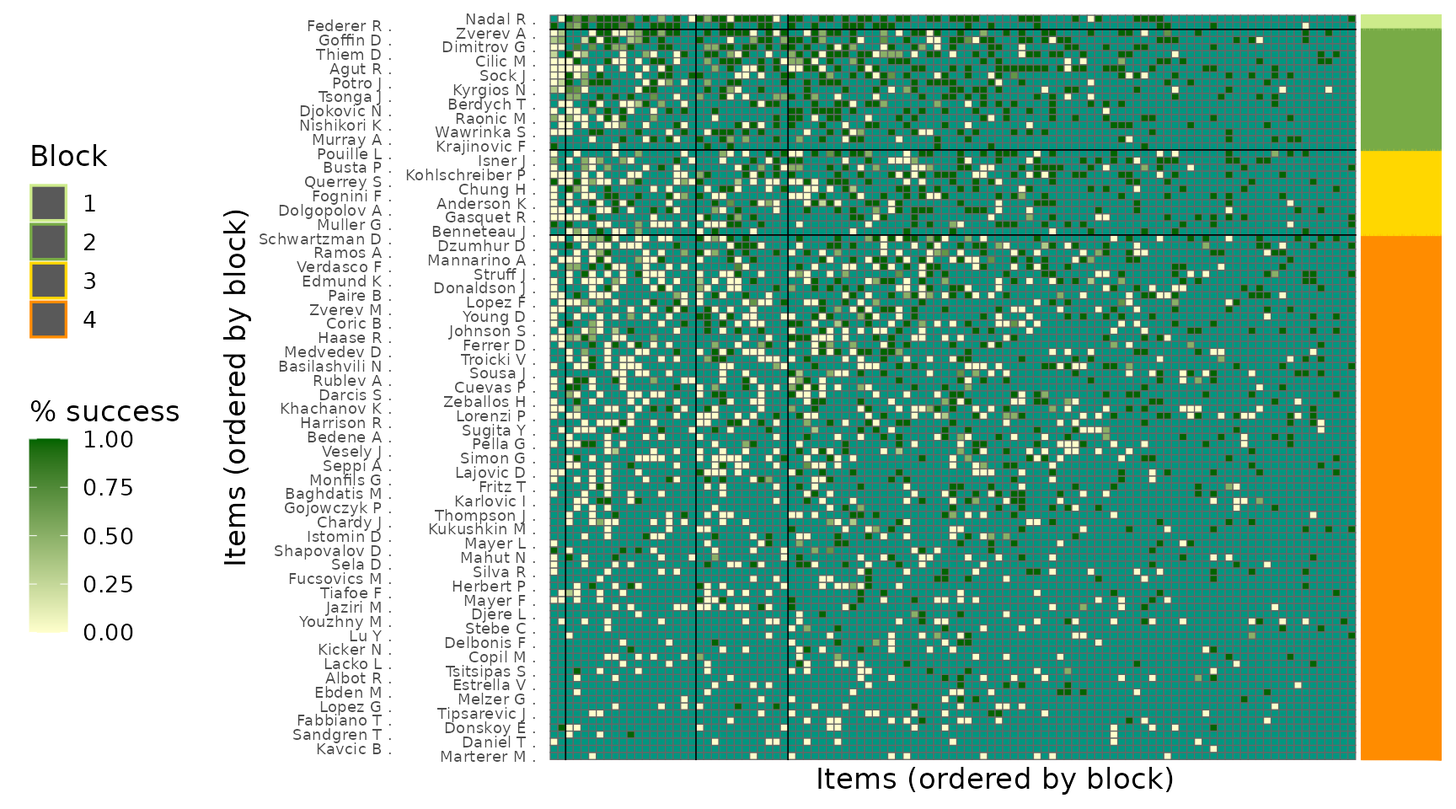
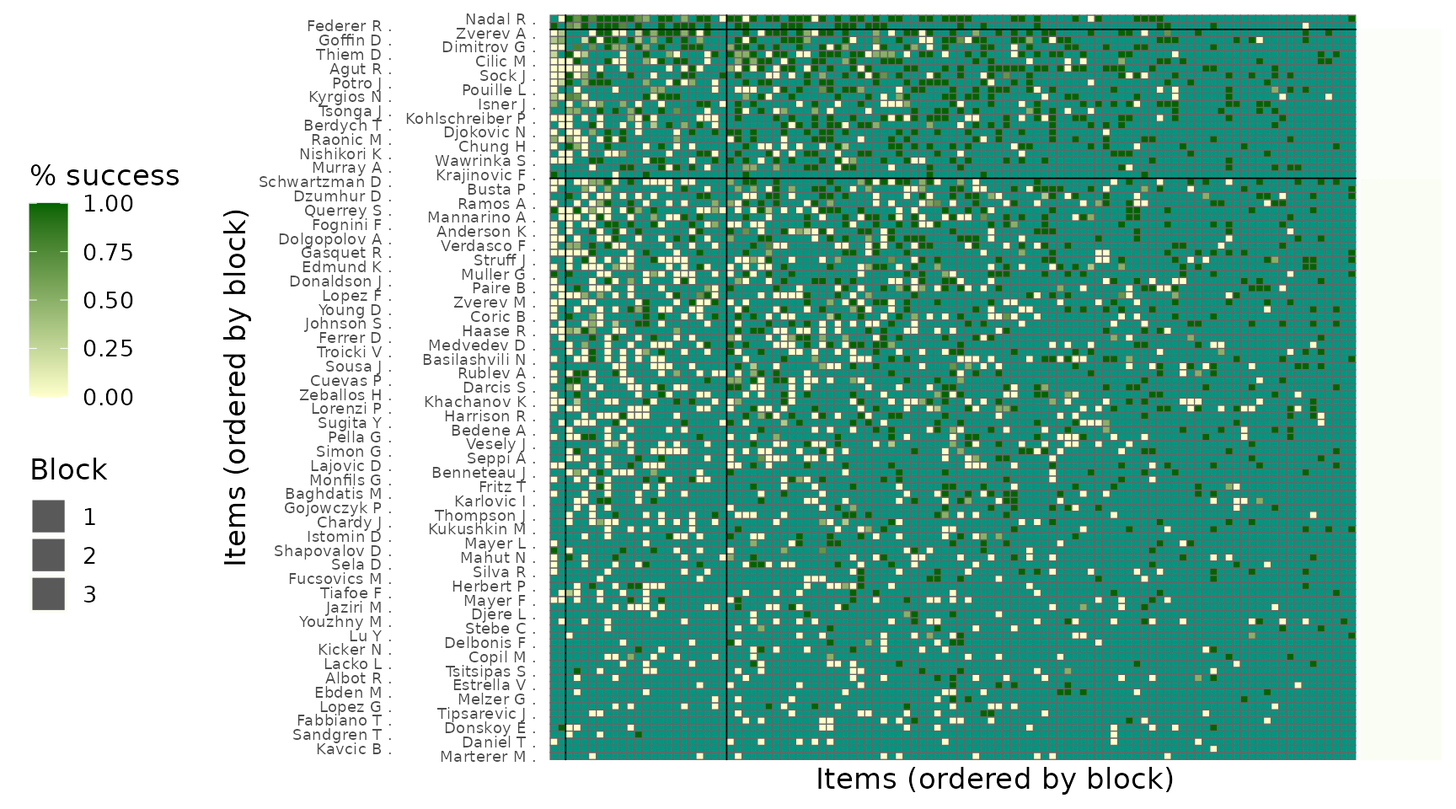
Deploying to gh-pages from @ laposanti/BTSBM@cc916e5ebd5cb34f34830970babe88e7a06e779b 🚀

Changed region(s): [[0.1875, 0.0, 1.0, 0.9375], [0.0, 0.1875, 0.125, 0.8125]]

diff --git a/reference/relabel_by_lambda.html b/reference/relabel_by_lambda.html
@@ -1,19 +1,27 @@
 <!DOCTYPE html>
-<!-- Generated by pkgdown: do not edit by hand --><html lang="en"><head><meta http-equiv="Content-Type" content="text/html; charset=UTF-8"><meta charset="utf-8"><meta http-equiv="X-UA-Compatible" content="IE=edge"><meta name="viewport" content="width=device-width, initial-scale=1, shrink-to-fit=no"><title>Relabel cluster assignments by decreasing lambda — relabel_by_lambda • BTSBM: Bradley–Terry Stochastic Block Model</title><!-- mathjax math --><script src="https://cdn.jsdelivr.net/npm/mathjax@3.2.2/es5/tex-mml-chtml.js" integrity="sha256-MASABpB4tYktI2Oitl4t+78w/lyA+D7b/s9GEP0JOGI=" crossorigin="anonymous"></script><script>
+<!-- Generated by pkgdown: do not edit by hand --><html lang="en"><head><meta http-equiv="Content-Type" content="text/html; charset=UTF-8"><meta charset="utf-8"><meta http-equiv="X-UA-Compatible" content="IE=edge"><meta name="viewport" content="width=device-width, initial-scale=1, shrink-to-fit=no"><title>Relabel partitions by decreasing \(\lambda\), compute point estimates, and quantify uncertainty via credible balls — relabel_by_lambda • BTSBM: Bradley–Terry Stochastic Block Model</title><!-- mathjax math --><script src="https://cdn.jsdelivr.net/npm/mathjax@3.2.2/es5/tex-mml-chtml.js" integrity="sha256-MASABpB4tYktI2Oitl4t+78w/lyA+D7b/s9GEP0JOGI=" crossorigin="anonymous"></script><script>
   window.MathJax = {
     chtml: {
       fontURL: "https://cdn.jsdelivr.net/npm/mathjax@3.2.2/es5/output/chtml/fonts/woff-v2"
     }
   };
-</script><script src="../lightswitch.js"></script><script src="../deps/jquery-3.6.0/jquery-3.6.0.min.js"></script><meta name="viewport" content="width=device-width, initial-scale=1, shrink-to-fit=no"><link href="../deps/bootstrap-5.3.1/bootstrap.min.css" rel="stylesheet"><script src="../deps/bootstrap-5.3.1/bootstrap.bundle.min.js"></script><link href="../deps/font-awesome-6.5.2/css/all.min.css" rel="stylesheet"><link href="../deps/font-awesome-6.5.2/css/v4-shims.min.css" rel="stylesheet"><script src="../deps/headroom-0.11.0/headroom.min.js"></script><script src="../deps/headroom-0.11.0/jQuery.headroom.min.js"></script><script src="../deps/bootstrap-toc-1.0.1/bootstrap-toc.min.js"></script><script src="../deps/clipboard.js-2.0.11/clipboard.min.js"></script><script src="../deps/search-1.0.0/autocomplete.jquery.min.js"></script><script src="../deps/search-1.0.0/fuse.min.js"></script><script src="../deps/search-1.0.0/mark.min.js"></script><!-- pkgdown --><script src="../pkgdown.js"></script><meta property="og:title" content="Relabel cluster assignments by decreasing lambda — relabel_by_lambda"><meta name="description" content="Given posterior samples of labels x_samples (S x N) and corresponding
-cluster-level intensities lambda_samples per iteration, produce a
-canonical relabeling where cluster 1 has the largest \(\lambda\),
-cluster 2 the second largest, etc. Also computes co-clustering summaries
-and assignment probabilities."><meta property="og:description" content="Given posterior samples of labels x_samples (S x N) and corresponding
-cluster-level intensities lambda_samples per iteration, produce a
-canonical relabeling where cluster 1 has the largest \(\lambda\),
-cluster 2 the second largest, etc. Also computes co-clustering summaries
-and assignment probabilities."></head><body>
+</script><script src="../lightswitch.js"></script><script src="../deps/jquery-3.6.0/jquery-3.6.0.min.js"></script><meta name="viewport" content="width=device-width, initial-scale=1, shrink-to-fit=no"><link href="../deps/bootstrap-5.3.1/bootstrap.min.css" rel="stylesheet"><script src="../deps/bootstrap-5.3.1/bootstrap.bundle.min.js"></script><link href="../deps/font-awesome-6.5.2/css/all.min.css" rel="stylesheet"><link href="../deps/font-awesome-6.5.2/css/v4-shims.min.css" rel="stylesheet"><script src="../deps/headroom-0.11.0/headroom.min.js"></script><script src="../deps/headroom-0.11.0/jQuery.headroom.min.js"></script><script src="../deps/bootstrap-toc-1.0.1/bootstrap-toc.min.js"></script><script src="../deps/clipboard.js-2.0.11/clipboard.min.js"></script><script src="../deps/search-1.0.0/autocomplete.jquery.min.js"></script><script src="../deps/search-1.0.0/fuse.min.js"></script><script src="../deps/search-1.0.0/mark.min.js"></script><!-- pkgdown --><script src="../pkgdown.js"></script><meta property="og:title" content="Relabel partitions by decreasing \(\lambda\), compute point estimates, and quantify uncertainty via credible balls — relabel_by_lambda"><meta name="description" content="Given posterior samples of labels x_samples (S x N) and corresponding
+cluster-level intensities lambda_samples per iteration, this function:
+(i) relabels each draw so that cluster 1 has the largest \(\lambda\),
+cluster 2 the second largest, etc.; (ii) computes posterior similarity
+matrix (PSM) and partition point estimates (minVI and Binder); and
+(iii) constructs a VI-credible ball around the minVI partition and returns the
+extremal partitions on its surface (lower/upper), relabelled by decreasing
+strength for interpretability. It also returns per-item assignment probabilities
+and the posterior distribution of the number of clusters."><meta property="og:description" content="Given posterior samples of labels x_samples (S x N) and corresponding
+cluster-level intensities lambda_samples per iteration, this function:
+(i) relabels each draw so that cluster 1 has the largest \(\lambda\),
+cluster 2 the second largest, etc.; (ii) computes posterior similarity
+matrix (PSM) and partition point estimates (minVI and Binder); and
+(iii) constructs a VI-credible ball around the minVI partition and returns the
+extremal partitions on its surface (lower/upper), relabelled by decreasing
+strength for interpretability. It also returns per-item assignment probabilities
+and the posterior distribution of the number of clusters."></head><body>
     <a href="#main" class="visually-hidden-focusable">Skip to contents</a>
 
 
@@ -52,17 +60,21 @@ and assignment probabilities."></head><body>
 <div class="row">
   <main id="main" class="col-md-9"><div class="page-header">
 
-      <h1>Relabel cluster assignments by decreasing lambda</h1>
+      <h1>Relabel partitions by decreasing \(\lambda\), compute point estimates, and quantify uncertainty via credible balls</h1>
       <small class="dont-index">Source: <a href="https://github.com/laposanti/BTSBM/blob/main/R/utils.R" class="external-link"><code>R/utils.R</code></a></small>
       <div class="d-none name"><code>relabel_by_lambda.Rd</code></div>
     </div>
 
     <div class="ref-description section level2">
     <p>Given posterior samples of labels <code>x_samples</code> (S x N) and corresponding
-cluster-level intensities <code>lambda_samples</code> per iteration, produce a
-canonical relabeling where cluster 1 has the largest \(\lambda\),
-cluster 2 the second largest, etc. Also computes co-clustering summaries
-and assignment probabilities.</p>
+cluster-level intensities <code>lambda_samples</code> per iteration, this function:
+(i) relabels each draw so that cluster <code>1</code> has the largest \(\lambda\),
+cluster <code>2</code> the second largest, etc.; (ii) computes posterior similarity
+matrix (PSM) and partition point estimates (minVI and Binder); and
+(iii) constructs a VI-credible ball around the minVI partition and returns the
+<em>extremal</em> partitions on its surface (lower/upper), relabelled by decreasing
+strength for interpretability. It also returns per-item assignment probabilities
+and the posterior distribution of the number of clusters.</p>
     </div>
 
     <div class="section level2">
@@ -75,70 +87,128 @@ and assignment probabilities.</p>
 
 
 <dl><dt id="arg-x-samples">x_samples<a class="anchor" aria-label="anchor" href="#arg-x-samples"></a></dt>
-<dd><p>Integer matrix S x N of sampled labels (arbitrary ids per iter).</p></dd>
+<dd><p>Integer matrix (S x N) of sampled partitions; rows index MCMC
+iterations and columns index items. Cluster labels are arbitrary across iterations.</p></dd>
 
 
 <dt id="arg-lambda-samples">lambda_samples<a class="anchor" aria-label="anchor" href="#arg-lambda-samples"></a></dt>
-<dd><p>Either:</p><ul><li><p>a <strong>list</strong> of length S with numeric vectors indexed by raw label id
-(NAs allowed for non-occupied ids), or</p></li>
-<li><p>a <strong>matrix</strong> S x L giving per-iteration \(\lambda_\ell\) for label \(\ell\).</p></li>
+<dd><p>Either:</p><ul><li><p>a <strong>list</strong> of length S; element <code>[[s]]</code> is a numeric vector
+of cluster intensities \(\lambda_\ell\) indexed by the <em>raw</em>
+label id used at iteration <code>s</code> (NAs allowed for non-occupied ids), or</p></li>
+<li><p>a <strong>matrix</strong> (S x L) whose row <code>s</code> gives \(\lambda_\ell\)
+for label \(\ell\) at iteration <code>s</code> (sparse columns with NAs permitted).</p></li>
 </ul></dd>
 
 </dl></div>
     <div class="section level2">
     <h2 id="value">Value<a class="anchor" aria-label="anchor" href="#value"></a></h2>
-    <p>A list with components:</p><dl><dt>x_samples_relabel</dt>
-<dd><p>S x N integer matrix of relabeled draws (1..K per iter, ordered by \(\lambda\)).</p></dd>
+    <p>A named list with components:</p><dl><dt><code>x_samples_relabel</code></dt>
+<dd><p>Integer matrix (S x N) of relabelled draws
+(labels <code>1..K_s</code> per iteration <code>s</code>, ordered by decreasing \(\lambda\)).</p></dd>
 
-<dt>lambda_samples_relabel</dt>
-<dd><p>S x N numeric matrix assigning each item its cluster's \(\lambda\) after relabeling.</p></dd>
+<dt><code>lambda_samples_relabel</code></dt>
+<dd><p>Numeric matrix (S x N) assigning each item its
+cluster's \(\lambda\) after relabelling.</p></dd>
 
-<dt>item_cluster_assignment_probs</dt>
-<dd><p>N x Kmax data frame of marginal assignment probabilities.</p></dd>
-
-<dt>block_count_distribution</dt>
-<dd><p>Data frame of the distribution of the number of blocks across iterations.</p></dd>
-
-<dt>avg_top_block_count</dt>
-<dd><p>Average size of the top-\(\lambda\) block.</p></dd>
-
-<dt>co_clustering</dt>
+<dt><code>co_clustering</code></dt>
 <dd><p>Posterior similarity matrix (N x N).</p></dd>
 
-<dt>minVI_partition</dt>
-<dd><p>Hard partition via minVI.</p></dd>
+<dt><code>minVI_partition</code></dt>
+<dd><p>Partition estimated by minimizing posterior expected VI
+(first solution returned by <code><a href="https://rdrr.io/pkg/mcclust.ext/man/minVI.html" class="external-link">mcclust.ext::minVI</a></code>).</p></dd>
 
-<dt>partition_binder</dt>
-<dd><p>Hard partition via Binder's loss.</p></dd>
+<dt><code>partition_binder</code></dt>
+<dd><p>Partition estimated by Binder's loss
+(<code><a href="https://rdrr.io/pkg/mcclust.ext/man/minbinder.ext.html" class="external-link">mcclust.ext::minbinder.ext</a></code>).</p></dd>
 
-<dt>n_clusters_each_iter</dt>
-<dd><p>Integer vector length S with number of blocks per iteration.</p></dd>
+<dt><code>credible_ball_lower_partition</code></dt>
+<dd><p>Partition on the <em>surface</em> of the
+95\<!-- % VI-credible ball that attains one extremum (relabelled by decreasing -->
+posterior-mean item strength).</p></dd>
 
-<dt>top_block_count_per_iter</dt>
-<dd><p>Integer vector length S with size of the top block per iteration.</p></dd>
+<dt><code>credible_ball_upper_partition</code></dt>
+<dd><p>Analogous extremal partition on the
+credible-ball surface (relabelled).</p></dd>
 
-<dt>cluster_lambda_ordered</dt>
-<dd><p>List length S of ordered \(\lambda\) vectors (length K per iter).</p></dd>
+<dt><code>K_VI_lower</code></dt>
+<dd><p>Number of clusters in <code>credible_ball_lower_partition</code>.</p></dd>
+
+<dt><code>K_VI_upper</code></dt>
+<dd><p>Number of clusters in <code>credible_ball_upper_partition</code>.</p></dd>
+
+<dt><code>n_clusters_each_iter</code></dt>
+<dd><p>Integer vector (length S) of occupied cluster counts per iteration.</p></dd>
+
+<dt><code>block_count_distribution</code></dt>
+<dd><p>Data frame with columns
+<code>num_blocks</code>, <code>count</code>, <code>prob</code> summarizing the posterior of the
+number of clusters.</p></dd>
+
+<dt><code>item_cluster_assignment_probs</code></dt>
+<dd><p>Data frame (N x Kmax) of per-item
+marginal assignment probabilities (columns <code>Cluster_1</code>, <code>Cluster_2</code>, ...).</p></dd>
+
+<dt><code>avg_top_block_count</code></dt>
+<dd><p>Average size of the top-\(\lambda\) cluster across iterations.</p></dd>
+
+<dt><code>top_block_count_per_iter</code></dt>
+<dd><p>Integer vector (length S) with the size
+of the top-\(\lambda\) cluster per iteration.</p></dd>
+
+<dt><code>cluster_lambda_ordered</code></dt>
+<dd><p>List of length S; each element is the vector of
+cluster \(\lambda\) values for that iteration, ordered decreasingly.</p></dd>
 
 
 </dl></div>
     <div class="section level2">
     <h2 id="details">Details<a class="anchor" aria-label="anchor" href="#details"></a></h2>
-    <p>The function first compacts raw labels to 1..K within each iteration,
-then orders the occupied labels by decreasing \(\lambda\), producing a
-canonical labeling. Co-clustering summaries use <span class="pkg">mcclust</span> and <span class="pkg">mcclust.ext</span>.</p>
+    <p><strong>Relabelling.</strong> For each iteration, occupied labels are compacted to <code>1..K_s</code>
+and reordered by decreasing \(\lambda\), producing a canonical “1 = strongest” labelling.</p>
+<p><strong>Point estimation.</strong> The posterior similarity matrix is computed from relabelled
+draws; minVI and Binder partitions are obtained via <span class="pkg">mcclust.ext</span>.</p>
+<p><strong>Credible ball and extremal partitions.</strong> A 95\<!-- % credible ball in partition space -->
+(under VI) is constructed around the minVI partition. We report the <em>extreme</em>
+partitions on the ball's surface (in the sense of maximal VI distance from the centre),
+as returned by <code><a href="https://rdrr.io/pkg/mcclust.ext/man/credibleball.html" class="external-link">mcclust.ext::credibleball</a></code>. These are then relabelled by decreasing
+posterior-mean item strength to ensure a consistent “strength ordering” across summaries.
+The associated cluster counts <code>K_VI_lower</code> and <code>K_VI_upper</code> characterize the
+local structural uncertainty around the point estimate; they are <em>not</em> marginal
+posterior quantiles of \(K\).</p>
+    </div>
+    <div class="section level2">
+    <h2 id="input-requirements">Input requirements<a class="anchor" aria-label="anchor" href="#input-requirements"></a></h2>
+
+
+<ul><li><p><code>x_samples</code> must be integer-valued with no missing items per row.</p></li>
+<li><p><code>lambda_samples</code> may be sparse (NAs for non-occupied labels).</p></li>
+<li><p><span class="pkg">mcclust</span> and <span class="pkg">mcclust.ext</span> must be available; <code>credibleball</code>
+is expected to return lower/upper partitions in either <code>c.lower/c.upper</code>
+or <code>c.lowervert/c.uppervert</code>.</p></li>
+</ul></div>
+    <div class="section level2">
+    <h2 id="references">References<a class="anchor" aria-label="anchor" href="#references"></a></h2>
+    <p>Wade, S., 2023. Bayesian cluster analysis. Philosophical Transactions of the Royal Society A: Mathematical, Physical and Engineering Sciences 381, 20220149. https://doi.org/10.1098/rsta.2022.0149</p>
+    </div>
+    <div class="section level2">
+    <h2 id="see-also">See also<a class="anchor" aria-label="anchor" href="#see-also"></a></h2>
+    <div class="dont-index"><p><code><a href="https://rdrr.io/pkg/mcclust.ext/man/minVI.html" class="external-link">minVI</a></code>, <code><a href="https://rdrr.io/pkg/mcclust.ext/man/minbinder.ext.html" class="external-link">minbinder.ext</a></code>,
+<code><a href="https://rdrr.io/pkg/mcclust.ext/man/credibleball.html" class="external-link">credibleball</a></code>, <code><a href="https://rdrr.io/pkg/mcclust/man/comp.psm.html" class="external-link">comp.psm</a></code></p></div>
     </div>
 
     <div class="section level2">
     <h2 id="ref-examples">Examples<a class="anchor" aria-label="anchor" href="#ref-examples"></a></h2>
     <div class="sourceCode"><pre class="sourceCode r"><code><span class="r-in"><span><span class="kw">if</span> <span class="op">(</span><span class="cn">FALSE</span><span class="op">)</span> <span class="op">{</span> <span class="co"># \dontrun{</span></span></span>
-<span class="r-in"><span><span class="va">S</span> <span class="op">&lt;-</span> <span class="fl">100</span>; <span class="va">N</span> <span class="op">&lt;-</span> <span class="fl">20</span></span></span>
 <span class="r-in"><span><span class="fu"><a href="https://rdrr.io/r/base/Random.html" class="external-link">set.seed</a></span><span class="op">(</span><span class="fl">42</span><span class="op">)</span></span></span>
-<span class="r-in"><span><span class="va">x_samps</span> <span class="op">&lt;-</span> <span class="fu"><a href="https://rdrr.io/r/base/matrix.html" class="external-link">matrix</a></span><span class="op">(</span><span class="fu"><a href="https://rdrr.io/r/base/sample.html" class="external-link">sample</a></span><span class="op">(</span><span class="fl">1</span><span class="op">:</span><span class="fl">3</span>, <span class="va">S</span><span class="op">*</span><span class="va">N</span>, <span class="cn">TRUE</span><span class="op">)</span>, <span class="va">S</span>, <span class="va">N</span><span class="op">)</span></span></span>
-<span class="r-in"><span><span class="va">lam_list</span> <span class="op">&lt;-</span> <span class="fu"><a href="https://rdrr.io/r/base/lapply.html" class="external-link">replicate</a></span><span class="op">(</span><span class="va">S</span>, <span class="op">{</span> <span class="va">v</span> <span class="op">&lt;-</span> <span class="fu"><a href="https://rdrr.io/r/base/rep.html" class="external-link">rep</a></span><span class="op">(</span><span class="cn">NA_real_</span>, <span class="fl">5</span><span class="op">)</span>; <span class="va">v</span><span class="op">[</span><span class="fl">1</span><span class="op">:</span><span class="fl">3</span><span class="op">]</span> <span class="op">&lt;-</span> <span class="fu"><a href="https://rdrr.io/r/stats/Uniform.html" class="external-link">runif</a></span><span class="op">(</span><span class="fl">3</span>, <span class="fl">0.5</span>, <span class="fl">2</span><span class="op">)</span>; <span class="va">v</span> <span class="op">}</span>, simplify<span class="op">=</span><span class="cn">FALSE</span><span class="op">)</span></span></span>
+<span class="r-in"><span><span class="va">S</span> <span class="op">&lt;-</span> <span class="fl">50</span>; <span class="va">N</span> <span class="op">&lt;-</span> <span class="fl">15</span></span></span>
+<span class="r-in"><span><span class="va">x_samps</span> <span class="op">&lt;-</span> <span class="fu"><a href="https://rdrr.io/r/base/matrix.html" class="external-link">matrix</a></span><span class="op">(</span><span class="fu"><a href="https://rdrr.io/r/base/sample.html" class="external-link">sample</a></span><span class="op">(</span><span class="fl">1</span><span class="op">:</span><span class="fl">4</span>, <span class="va">S</span><span class="op">*</span><span class="va">N</span>, <span class="cn">TRUE</span><span class="op">)</span>, <span class="va">S</span>, <span class="va">N</span><span class="op">)</span></span></span>
+<span class="r-in"><span><span class="co"># Sparse lambda per-iter: labels up to 6, only first 4 occupied typically</span></span></span>
+<span class="r-in"><span><span class="va">lam_list</span> <span class="op">&lt;-</span> <span class="fu"><a href="https://rdrr.io/r/base/lapply.html" class="external-link">replicate</a></span><span class="op">(</span><span class="va">S</span>, <span class="op">{</span> <span class="va">v</span> <span class="op">&lt;-</span> <span class="fu"><a href="https://rdrr.io/r/base/rep.html" class="external-link">rep</a></span><span class="op">(</span><span class="cn">NA_real_</span>, <span class="fl">6</span><span class="op">)</span>; <span class="va">v</span><span class="op">[</span><span class="fl">1</span><span class="op">:</span><span class="fl">4</span><span class="op">]</span> <span class="op">&lt;-</span> <span class="fu"><a href="https://rdrr.io/r/stats/Exponential.html" class="external-link">rexp</a></span><span class="op">(</span><span class="fl">4</span>, <span class="fl">1</span><span class="op">)</span>; <span class="va">v</span> <span class="op">}</span>, simplify <span class="op">=</span> <span class="cn">FALSE</span><span class="op">)</span></span></span>
 <span class="r-in"><span><span class="va">out</span> <span class="op">&lt;-</span> <span class="fu">relabel_by_lambda</span><span class="op">(</span><span class="va">x_samps</span>, <span class="va">lam_list</span><span class="op">)</span></span></span>
-<span class="r-in"><span><span class="fu"><a href="https://rdrr.io/r/base/table.html" class="external-link">table</a></span><span class="op">(</span><span class="va">out</span><span class="op">$</span><span class="va">block_count_distribution</span><span class="op">$</span><span class="va">num_blocks</span><span class="op">)</span></span></span>
+<span class="r-in"><span><span class="va">out</span><span class="op">$</span><span class="va">minVI_partition</span><span class="op">[</span><span class="fl">1</span><span class="op">:</span><span class="fl">10</span><span class="op">]</span></span></span>
+<span class="r-in"><span><span class="va">out</span><span class="op">$</span><span class="va">K_VI_lower</span>; <span class="va">out</span><span class="op">$</span><span class="va">K_VI_upper</span></span></span>
 <span class="r-in"><span><span class="op">}</span> <span class="co"># }</span></span></span>
+<span class="r-in"><span></span></span>
 </code></pre></div>
     </div>
   </main><aside class="col-md-3"><nav id="toc" aria-label="Table of contents"><h2>On this page</h2>

diff --git a/reference/plot_block_adjacency.html b/reference/plot_block_adjacency.html
@@ -69,8 +69,7 @@ for block IDs if <span class="pkg">ggside</span> is installed.</p>
 <span>  <span class="va">w_ij</span>,</span>
 <span>  x_hat <span class="op">=</span> <span class="cn">NULL</span>,</span>
 <span>  clean_fun <span class="op">=</span> <span class="va">clean_players_names</span>,</span>
-<span>  palette <span class="op">=</span> <span class="fu"><a href="https://rdrr.io/r/base/c.html" class="external-link">c</a></span><span class="op">(</span>`0` <span class="op">=</span> <span class="st">"#FFFFFF"</span>, `1` <span class="op">=</span> <span class="st">"#CDEB8B"</span>, `2` <span class="op">=</span> <span class="st">"#78AB46"</span>, `3` <span class="op">=</span> <span class="st">"#FFD700"</span>, `4` <span class="op">=</span></span>
-<span>    <span class="st">"#FF8C00"</span>, `5` <span class="op">=</span> <span class="st">"#00441B"</span><span class="op">)</span>,</span>
+<span>  palette <span class="op">=</span> <span class="cn">NULL</span>,</span>
 <span>  fill_low <span class="op">=</span> <span class="st">"#FFFFCC"</span>,</span>
 <span>  fill_high <span class="op">=</span> <span class="st">"#006400"</span></span>
 <span><span class="op">)</span></span></code></pre></div>
@@ -102,7 +101,7 @@ Wimbledon-ish palette.</p></dd>
 
 
 <dt id="arg-fill-low-fill-high">fill_low, fill_high<a class="anchor" aria-label="anchor" href="#arg-fill-low-fill-high"></a></dt>
-<dd><p>Colors for the heatmap gradient low/high.</p></dd>
+<dd><p>Colors for the heatmap pixels gradient low/high.</p></dd>
 
 </dl></div>
     <div class="section level2">

diff --git a/reference/HGnedin.html b/reference/HGnedin.html
@@ -78,6 +78,10 @@
     <h2 id="value">Value<a class="anchor" aria-label="anchor" href="#value"></a></h2>
     <p>Numeric vector of weights \(K(n,k)\).</p>
     </div>
+    <div class="section level2">
+    <h2 id="references">References<a class="anchor" aria-label="anchor" href="#references"></a></h2>
+    <p>Legramanti, S., Rigon, T., Durante, D., Dunson, D.B., 2022. Extended stochastic block models with application to criminal networks. The Annals of Applied Statistics 16. https://doi.org/10.1214/21-aoas1595</p>
+    </div>
 
   </main><aside class="col-md-3"><nav id="toc" aria-label="Table of contents"><h2>On this page</h2>
     </nav></aside></div>

diff --git a/reference/urn_DM.html b/reference/urn_DM.html
@@ -76,7 +76,9 @@
 </dl></div>
     <div class="section level2">
     <h2 id="value">Value<a class="anchor" aria-label="anchor" href="#value"></a></h2>
-    <p>Numeric vector length \(K+1\): existing weights and new-cluster mass.</p>
+    <p>Numeric vector length \(K+1\): existing weights and new-cluster mass.
+#' @references
+Legramanti, S., Rigon, T., Durante, D., Dunson, D.B., 2022. Extended stochastic block models with application to criminal networks. The Annals of Applied Statistics 16. https://doi.org/10.1214/21-aoas1595</p>
     </div>
 
   </main><aside class="col-md-3"><nav id="toc" aria-label="Table of contents"><h2>On this page</h2>

diff --git a/reference/urn_DP.html b/reference/urn_DP.html
@@ -72,7 +72,9 @@
 </dl></div>
     <div class="section level2">
     <h2 id="value">Value<a class="anchor" aria-label="anchor" href="#value"></a></h2>
-    <p>Numeric vector length \(K+1\): existing weights and new-cluster mass.</p>
+    <p>Numeric vector length \(K+1\): existing weights and new-cluster mass.
+#' @references
+Legramanti, S., Rigon, T., Durante, D., Dunson, D.B., 2022. Extended stochastic block models with application to criminal networks. The Annals of Applied Statistics 16. https://doi.org/10.1214/21-aoas1595</p>
     </div>
 
   </main><aside class="col-md-3"><nav id="toc" aria-label="Table of contents"><h2>On this page</h2>

diff --git a/reference/expected_cl_py.html b/reference/expected_cl_py.html
@@ -80,7 +80,9 @@
 </dl></div>
     <div class="section level2">
     <h2 id="value">Value<a class="anchor" aria-label="anchor" href="#value"></a></h2>
-    <p>Numeric(1) expected number of clusters.</p>
+    <p>Numeric(1) expected number of clusters.
+#' @references
+Legramanti, S., Rigon, T., Durante, D., Dunson, D.B., 2022. Extended stochastic block models with application to criminal networks. The Annals of Applied Statistics 16. https://doi.org/10.1214/21-aoas1595</p>
     </div>
 
   </main><aside class="col-md-3"><nav id="toc" aria-label="Table of contents"><h2>On this page</h2>

diff --git a/articles/getting-started.html b/articles/getting-started.html
@@ -73,7 +73,7 @@
       <h1>Getting started with BTSBM: the R package for the BT-SBM paper</h1>
                         <h4 data-toc-skip class="author">Lapo Santi</h4>
             
-            <h4 data-toc-skip class="date">2025-10-24</h4>
+            <h4 data-toc-skip class="date">2025-10-25</h4>
       
       <small class="dont-index">Source: <a href="https://github.com/laposanti/BTSBM/blob/main/vignettes/getting-started.Rmd" class="external-link"><code>vignettes/getting-started.Rmd</code></a></small>
       <div class="d-none name"><code>getting-started.Rmd</code></div>

diff --git a/reference/urn_GN.html b/reference/urn_GN.html
@@ -72,7 +72,9 @@
 </dl></div>
     <div class="section level2">
     <h2 id="value">Value<a class="anchor" aria-label="anchor" href="#value"></a></h2>
-    <p>Numeric vector length \(K+1\).</p>
+    <p>Numeric vector length \(K+1\).
+#' @references
+Legramanti, S., Rigon, T., Durante, D., Dunson, D.B., 2022. Extended stochastic block models with application to criminal networks. The Annals of Applied Statistics 16. https://doi.org/10.1214/21-aoas1595</p>
     </div>
 
   </main><aside class="col-md-3"><nav id="toc" aria-label="Table of contents"><h2>On this page</h2>

diff --git a/reference/urn_PY.html b/reference/urn_PY.html
@@ -76,7 +76,9 @@
 </dl></div>
     <div class="section level2">
     <h2 id="value">Value<a class="anchor" aria-label="anchor" href="#value"></a></h2>
-    <p>Numeric vector length \(K+1\).</p>
+    <p>Numeric vector length \(K+1\).
+#' @references
+Legramanti, S., Rigon, T., Durante, D., Dunson, D.B., 2022. Extended stochastic block models with application to criminal networks. The Annals of Applied Statistics 16. https://doi.org/10.1214/21-aoas1595</p>
     </div>
 
   </main><aside class="col-md-3"><nav id="toc" aria-label="Table of contents"><h2>On this page</h2>

diff --git a/articles/Notation.html b/articles/Notation.html
@@ -72,7 +72,7 @@
 
       <h1>Notation and Object Dimensions for the Bradley–Terry Stochastic Block Model</h1>
             
-            <h4 data-toc-skip class="date">2025-10-24</h4>
+            <h4 data-toc-skip class="date">2025-10-25</h4>
       
       <small class="dont-index">Source: <a href="https://github.com/laposanti/BTSBM/blob/main/vignettes/Notation.Rmd" class="external-link"><code>vignettes/Notation.Rmd</code></a></small>
       <div class="d-none name"><code>Notation.Rmd</code></div>

diff --git a/reference/index.html b/reference/index.html
@@ -147,7 +147,7 @@
           <code><a href="relabel_by_lambda.html">relabel_by_lambda()</a></code>
 
         </dt>
-        <dd>Relabel cluster assignments by decreasing lambda</dd>
+        <dd>Relabel partitions by decreasing \(\lambda\), compute point estimates, and quantify uncertainty via credible balls</dd>
       </dl><dl><dt>
 
           <code><a href="sample_from_BTSBM.html">sample_from_BTSBM()</a></code>
